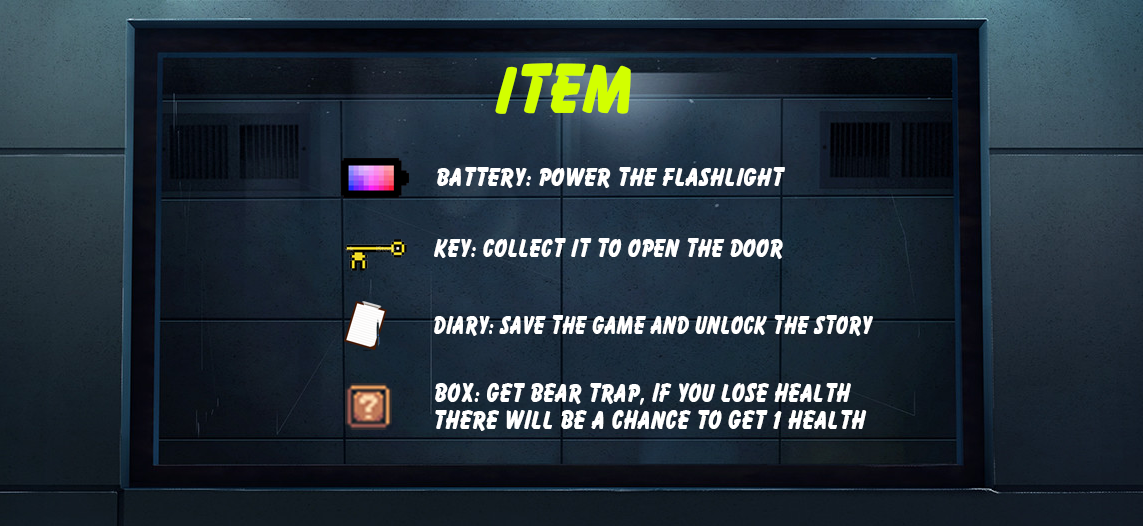
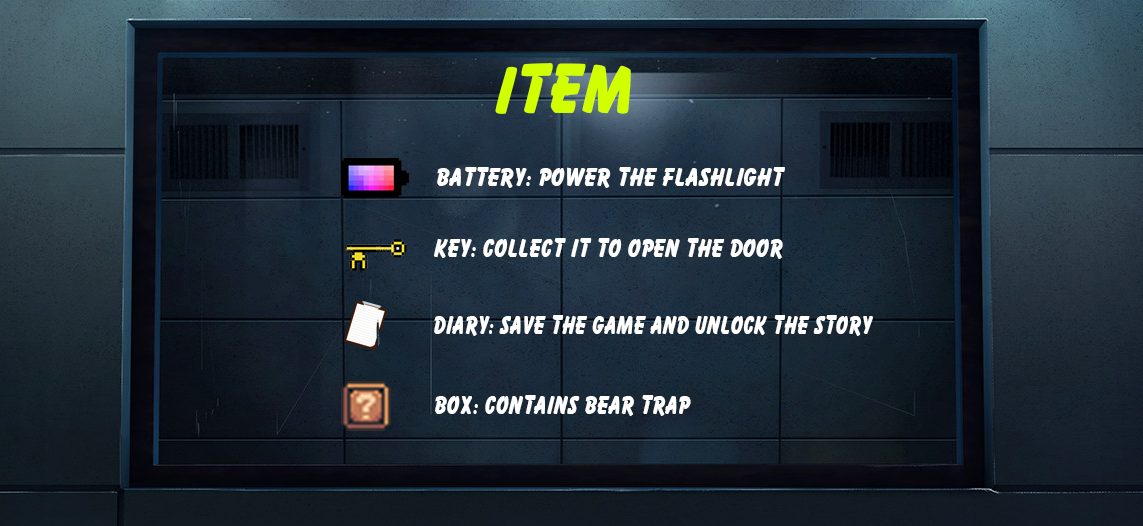
+ add heal 3 level

Changed region(s): [[0.2756, 0.6996, 0.7655, 0.8213]]

diff --git a/Torchase/Classes/GameScene.cpp b/Torchase/Classes/GameScene.cpp
@@ -176,10 +176,13 @@ bool GameScene::init()
 	else 
 	{
 		GameScene::meet();
+		player->NumHeal = 3- Level_of_difficult;
+		player->changeHeal();
 	}
 	canvas->setPercentEnegy(Level_of_difficult);
 	finish = false;
 	return true;
+	
 }
 
 bool GameScene::onContactBegin(cocos2d::PhysicsContact &contact)
